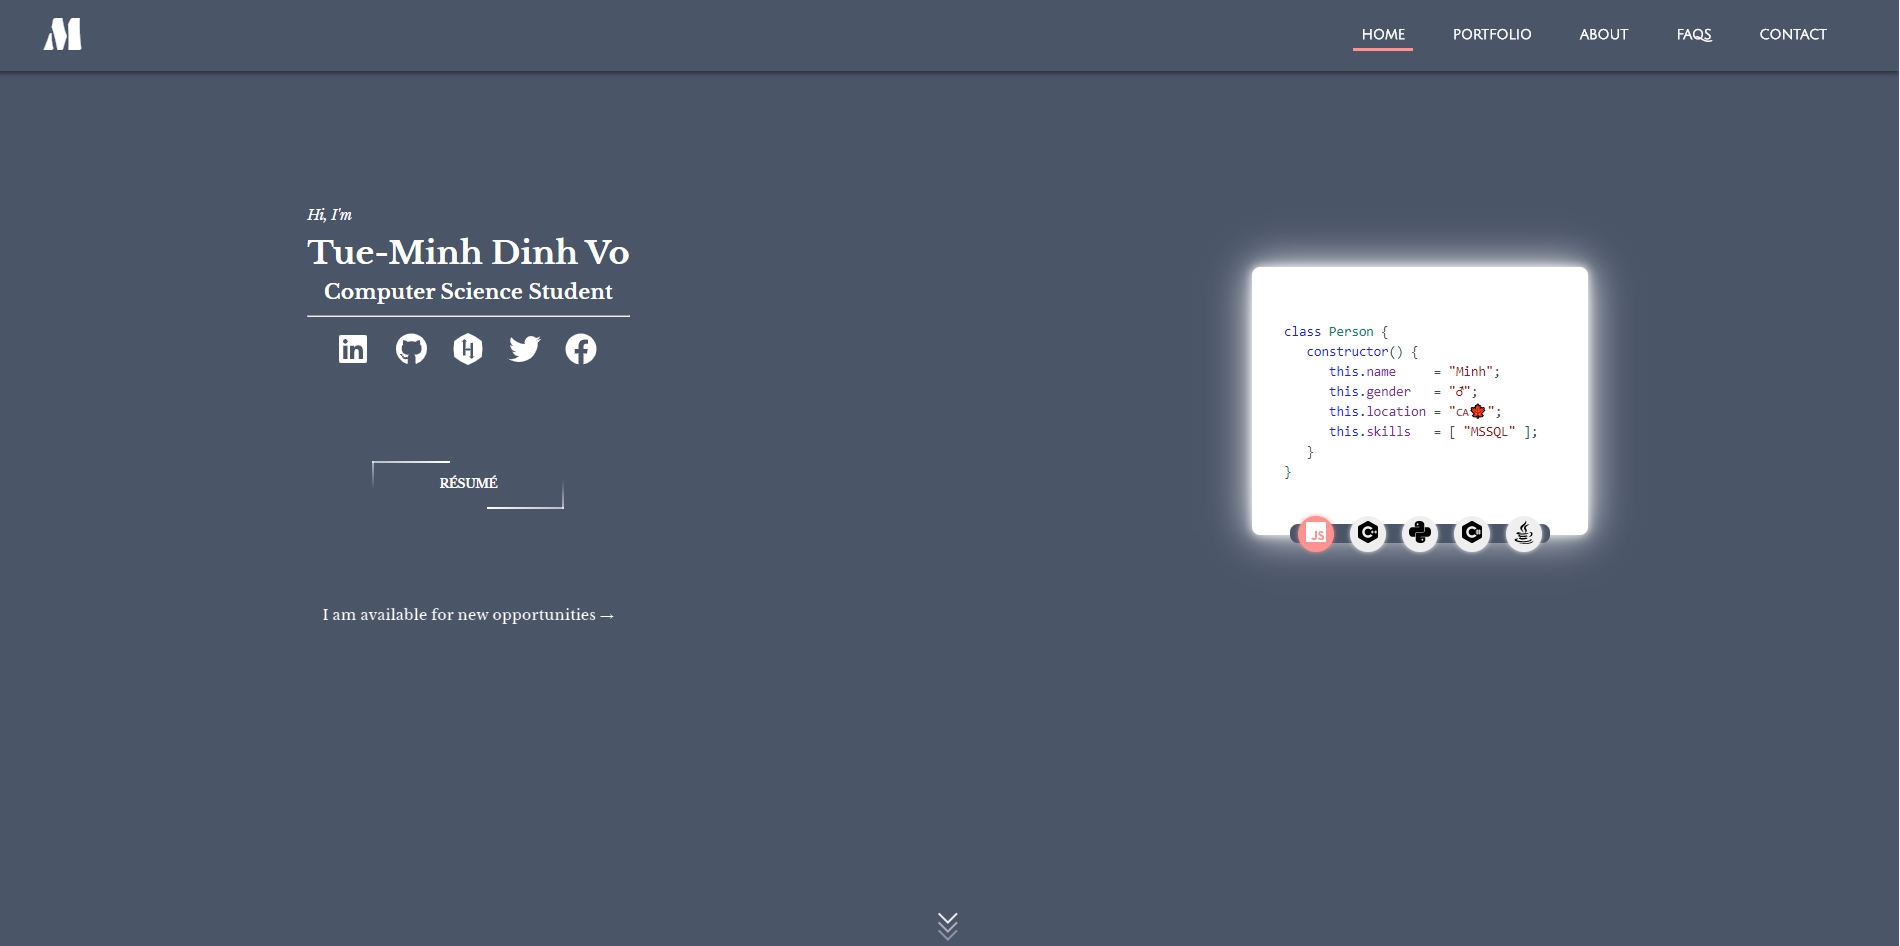
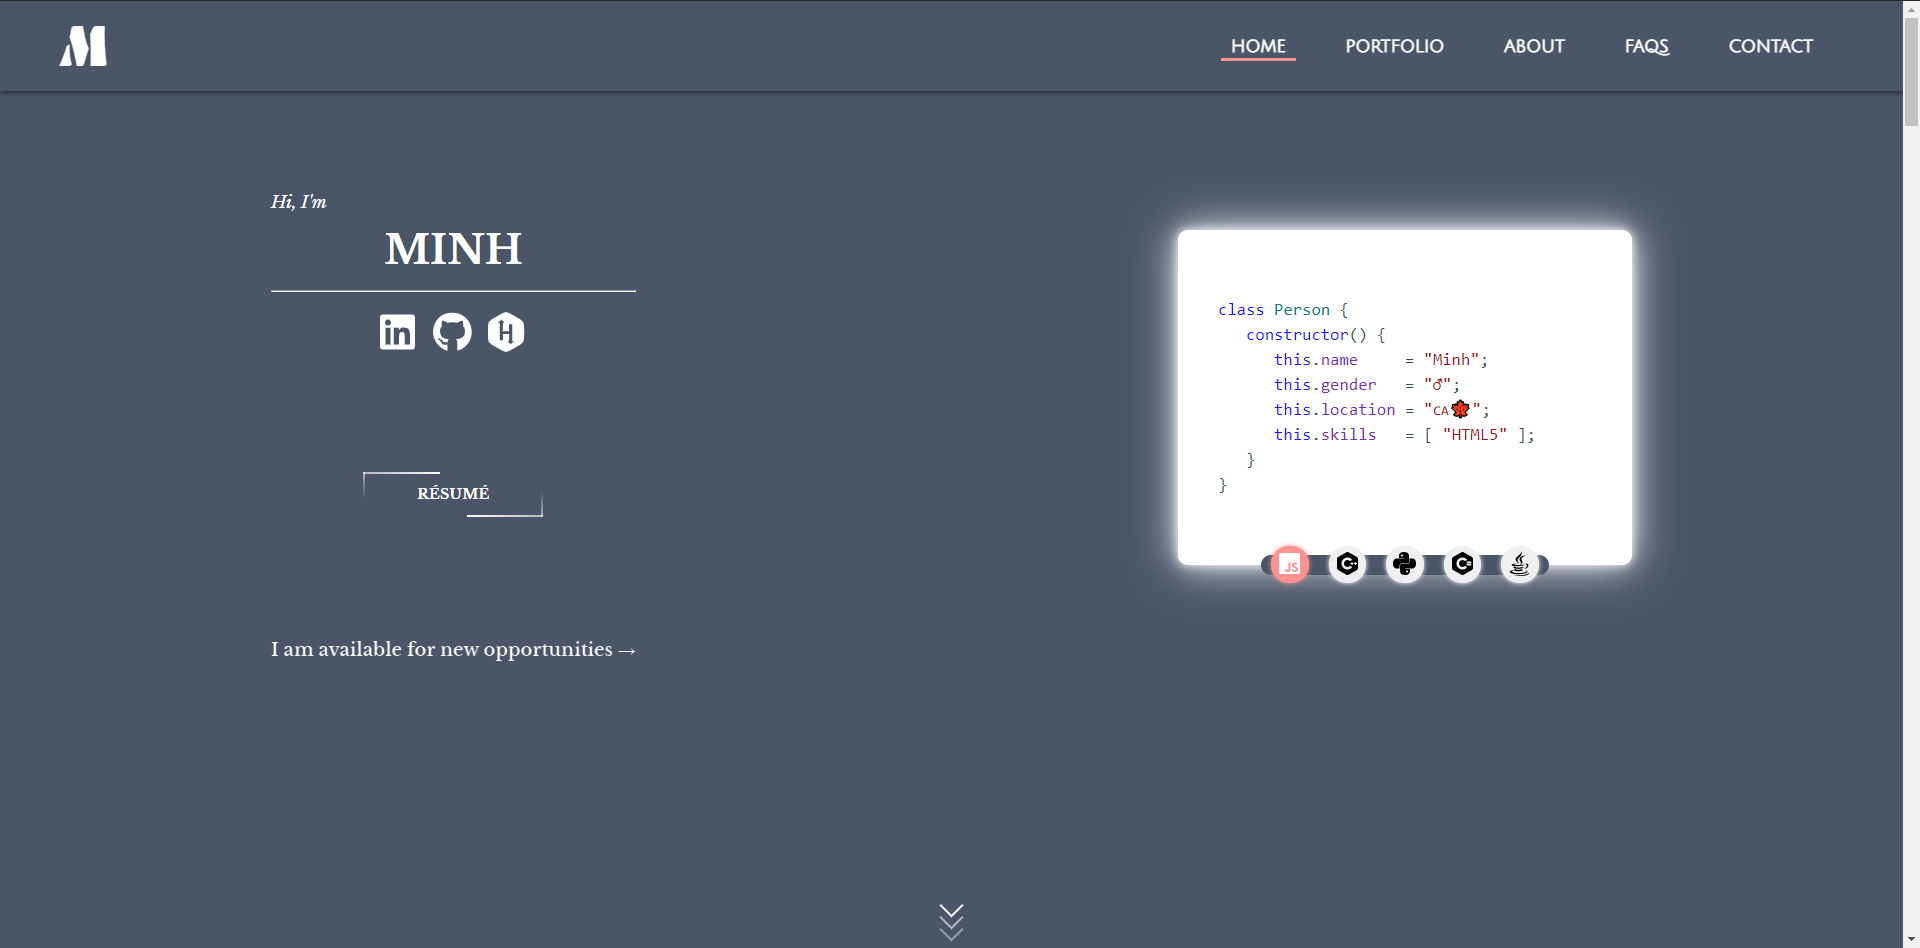
✍ Update version 1.3.5

diff --git a/index.html b/index.html
@@ -274,7 +274,7 @@
             <!-- Project list -->
             <div class="project-card-container">
               <div class="project-card">
-                <img data-src="" src="./assets/img/toys/contacts_plus_app_cover.jpg" alt="" loading="lazy">
+                <img data-src="" src="./assets/img/projects/contacts_plus_app_cover.jpg" alt="" loading="lazy">
                 <div class="project-card-body">
                   <h3 class="project-card-title">Contacts+</h3>
                   <!-- <p class="project-card-text">Description for this project is coming soon 😃</p> -->
@@ -299,6 +299,27 @@
             </div>
             <!-- Toy list  -->
             <div class="project-card-container">
+              <!-- Minhsenger™ -->
+              <div class="project-card">
+                <img data-src="" src="./assets/img/toys/minhsenger_cover.png" alt="" loading="lazy">
+                <div class="project-card-body">
+                  <h3 class="project-card-title">Minhsenger™</h3>
+                  <div class="project-card-meta">
+                    <span>PWA</span>
+                    <span>React</span>
+                    <span>Socket.io</span>
+                    <span>Node.js</span>
+                  </div>
+                  <ul>
+                    <li><a class="animation-link" href="https://minhsenger.herokuapp.com/" title="Live website"
+                        target="_blank">demo</a></li>
+                    <li><a class="animation-link"
+                        href="https://github.com/minhvo-dev/React-Socket.io-Minhsenger"
+                        title="Source code on GitHub" target="_blank">code</a></li>
+                  </ul>
+                </div>
+              </div>
+
               <!-- Greedy Game app -->
               <div class="project-card">
                 <img data-src="" src="./assets/img/toys/greedy_game_cover.jpg" alt="" loading="lazy">

diff --git a/README.md b/README.md
@@ -13,12 +13,17 @@
 
 ## Changelog
 
+### Version 1.3.5 - 14/04/2021
+- Added Minhsenger™ app
+- Added robots.txt
+- Updated frontpage screenshot
+- Reorganized imgs
+
 ### Version 1.3.4 - 10/04/2021
 - Added Contacts+ app
 - Modified h1 and h2 tags
 - Fixed skill-icon class
 - Removed title in home page
-
 
 ### Version 1.3.3 - 31/03/2021
 - Added Greedy Game
